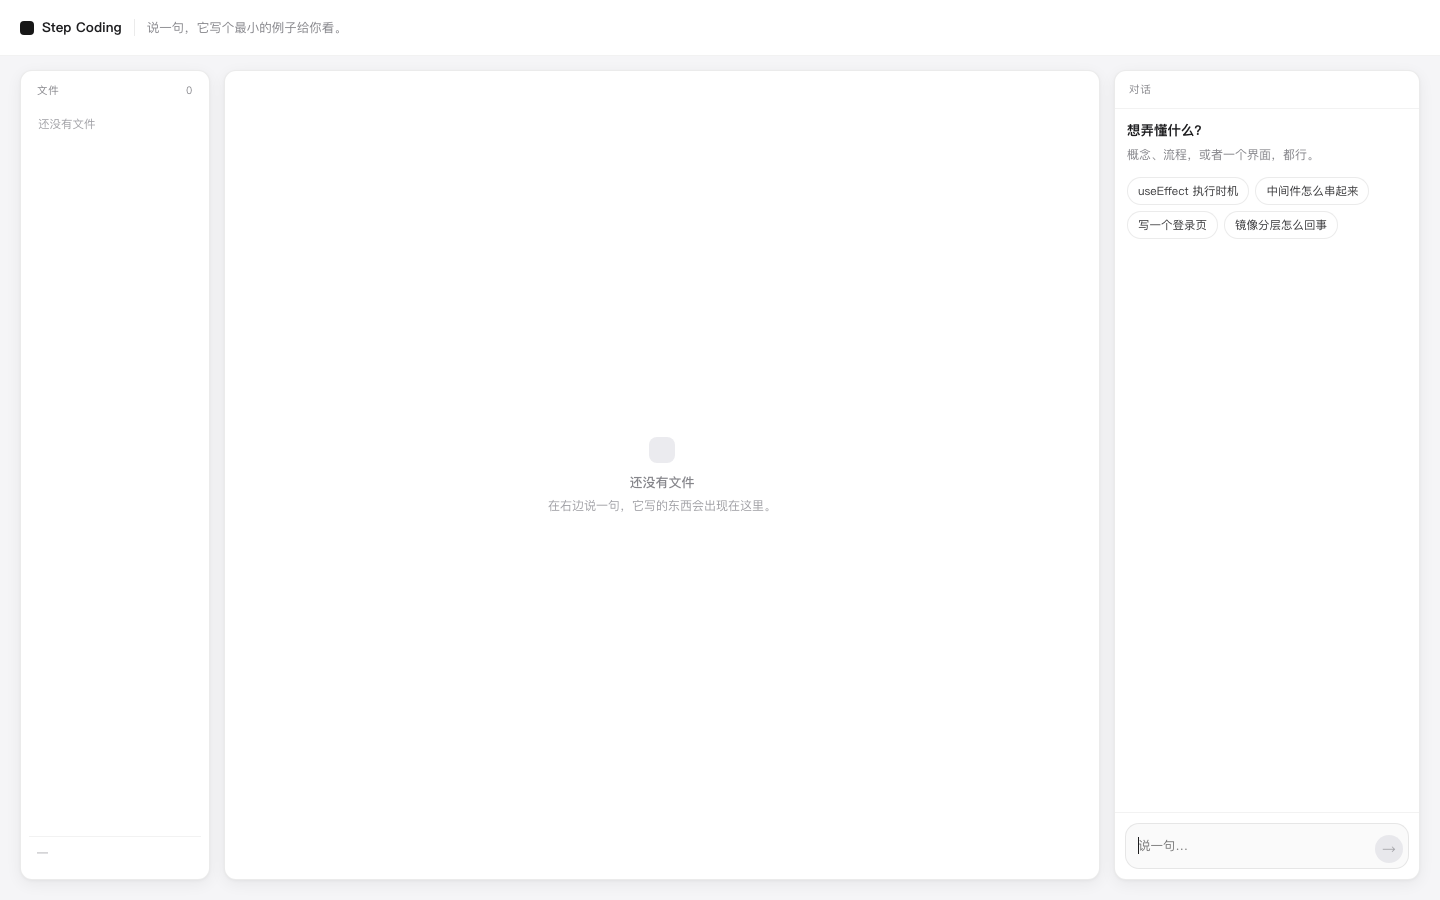
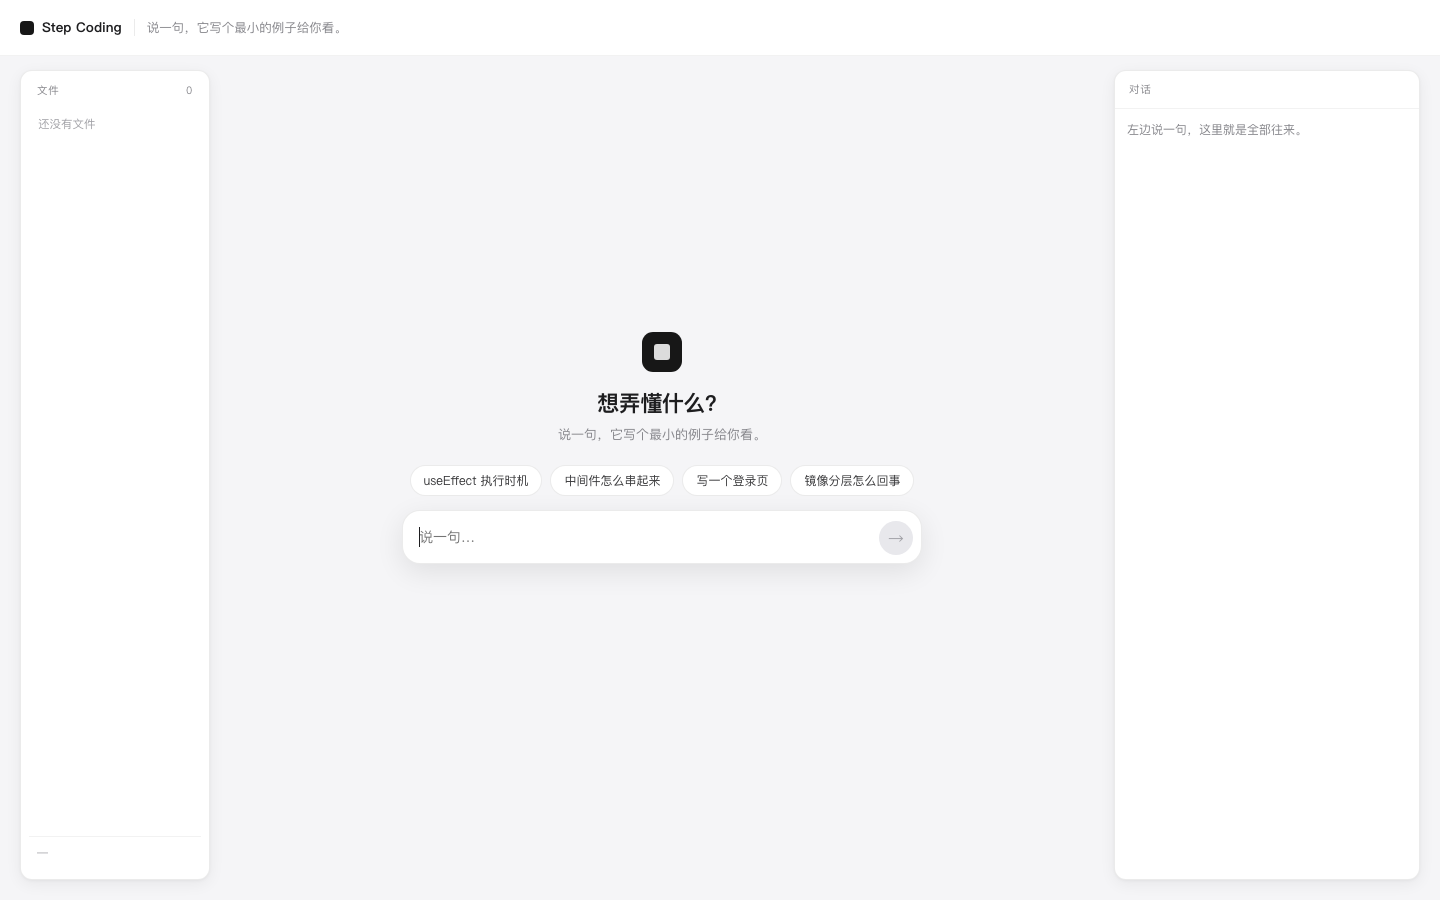
fix: 把首页放回编辑区
上一版把欢迎页整个删掉了，中间只剩"还没有文件"一句，太荒。

现在按 VS Code 欢迎页的做法：三栏常驻，中间的编辑区在没内容时
显示原本的欢迎界面——图标、想弄懂什么、示例、输入框。

- 聊天记录出现在右侧对话面板（不再挤在中间）
- 输入框：还没内容时在中间（提问是主角），有内容后移到右侧面板
- 右侧空状态只留最近的记录

diff --git a/web/src/App.tsx b/web/src/App.tsx
@@ -411,10 +411,20 @@ export default function App() {
               </div>
             </>
           ) : (
-            <div className="stage-empty">
-              <div className="stage-mark" />
-              <div className="stage-title">还没有文件</div>
-              <div className="stage-hint">在右边说一句，它写的东西会出现在这里。</div>
+            <div className="stage-welcome">
+              <div className="ask-mark" />
+              <h1>想弄懂什么？</h1>
+              <p>说一句，它写个最小的例子给你看。</p>
+
+              <div className="ask-examples">
+                {EXAMPLES.map((item) => (
+                  <button key={item.ask} className="ask-chip" onClick={() => void send(item.ask)}>
+                    {item.label}
+                  </button>
+                ))}
+              </div>
+
+              {composer}
             </div>
           )}
         </section>
@@ -424,15 +434,9 @@ export default function App() {
           <div className="chat-log">
             {messages.length === 0 && (
               <div className="chat-intro">
-                <div className="chat-intro-text">想弄懂什么？</div>
-                <div className="chat-intro-sub">概念、流程，或者一个界面，都行。</div>
-                <div className="chat-chips">
-                  {EXAMPLES.map((item) => (
-                    <button key={item.ask} className="ask-chip" onClick={() => void send(item.ask)}>
-                      {item.label}
-                    </button>
-                  ))}
-                </div>
+                {history.length === 0 && (
+                  <div className="chat-intro-sub">说一句，来往会记在这里。</div>
+                )}
                 {history.length > 0 && (
                   <>
                     <div className="chat-intro-sub recent">最近</div>
@@ -466,7 +470,7 @@ export default function App() {
             {loading && <div className="bubble assistant typing">…</div>}
             {error && <div className="bubble error">{error}</div>}
           </div>
-          <div className="chat-foot">{composer}</div>
+          {lesson && <div className="chat-foot">{composer}</div>}
         </aside>
       </main>
     </div>

diff --git a/web/src/styles.css b/web/src/styles.css
@@ -885,3 +885,60 @@ button {
   background: #fff;
   box-shadow: var(--shadow);
 }
+
+/* ---- 中间欢迎区（原首页搬进编辑区） ---- */
+.stage-welcome {
+  flex: 1;
+  min-height: 0;
+  display: flex;
+  flex-direction: column;
+  align-items: center;
+  justify-content: center;
+  gap: 0;
+  padding: 0 32px 6vh;
+  text-align: center;
+}
+
+.stage-welcome .ask-mark {
+  width: 40px;
+  height: 40px;
+  border-radius: 11px;
+  background: var(--accent);
+  position: relative;
+  margin-bottom: 16px;
+}
+
+.stage-welcome .ask-mark::after {
+  content: "";
+  position: absolute;
+  inset: 12px;
+  border-radius: 3px;
+  background: rgba(255, 255, 255, 0.85);
+}
+
+.stage-welcome h1 {
+  margin: 0 0 7px;
+  font-size: 22px;
+  font-weight: 600;
+  letter-spacing: -0.4px;
+  color: var(--ink);
+}
+
+.stage-welcome p {
+  margin: 0 0 22px;
+  font-size: 13px;
+  color: var(--muted);
+}
+
+.stage-welcome .ask-examples {
+  display: flex;
+  flex-wrap: wrap;
+  gap: 8px;
+  justify-content: center;
+  margin-bottom: 14px;
+}
+
+.stage-welcome .composer {
+  width: 100%;
+  max-width: 520px;
+}
